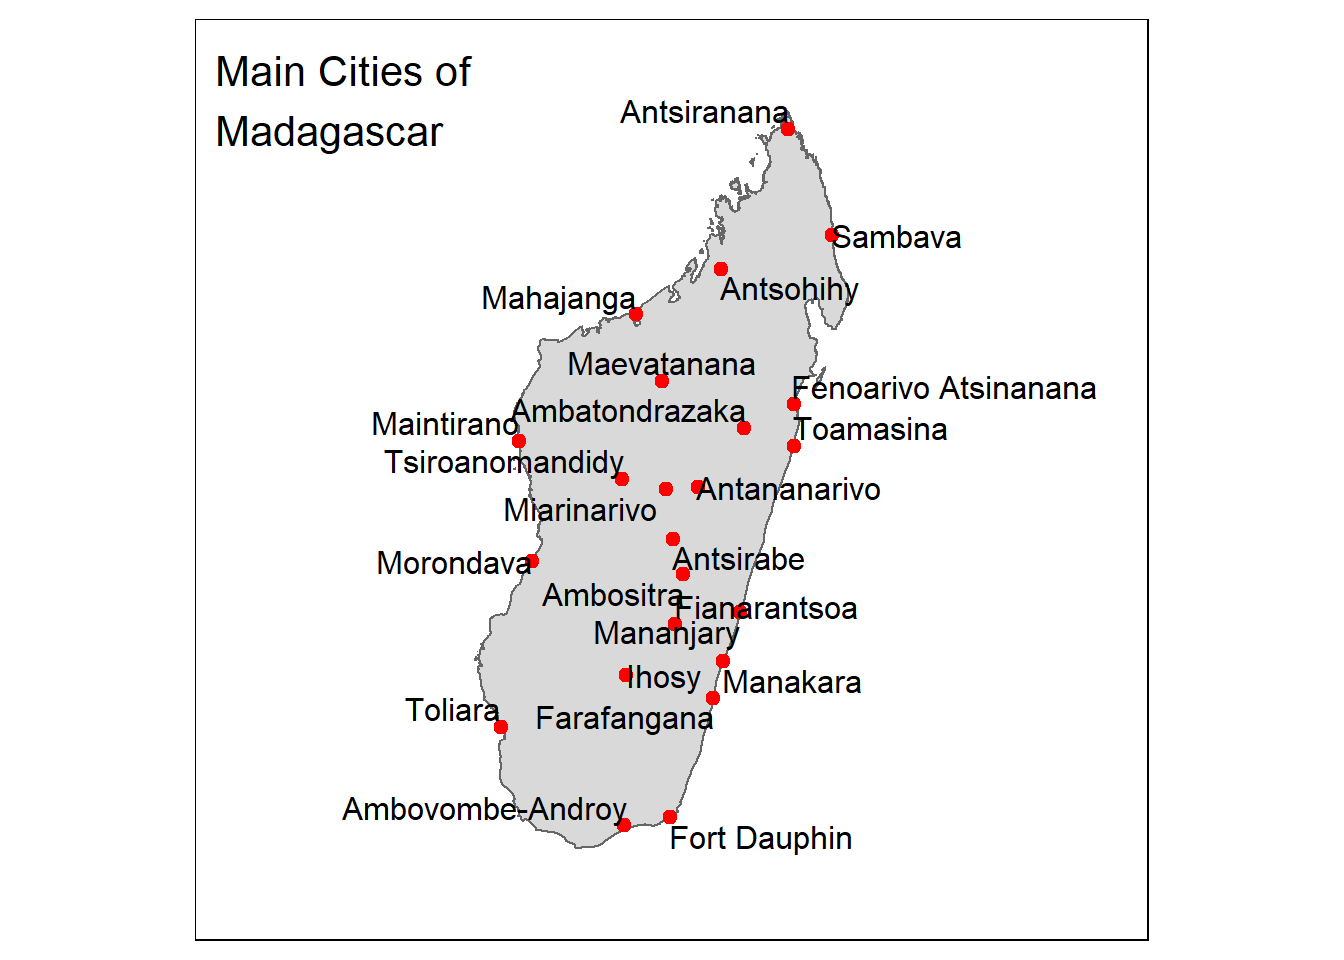
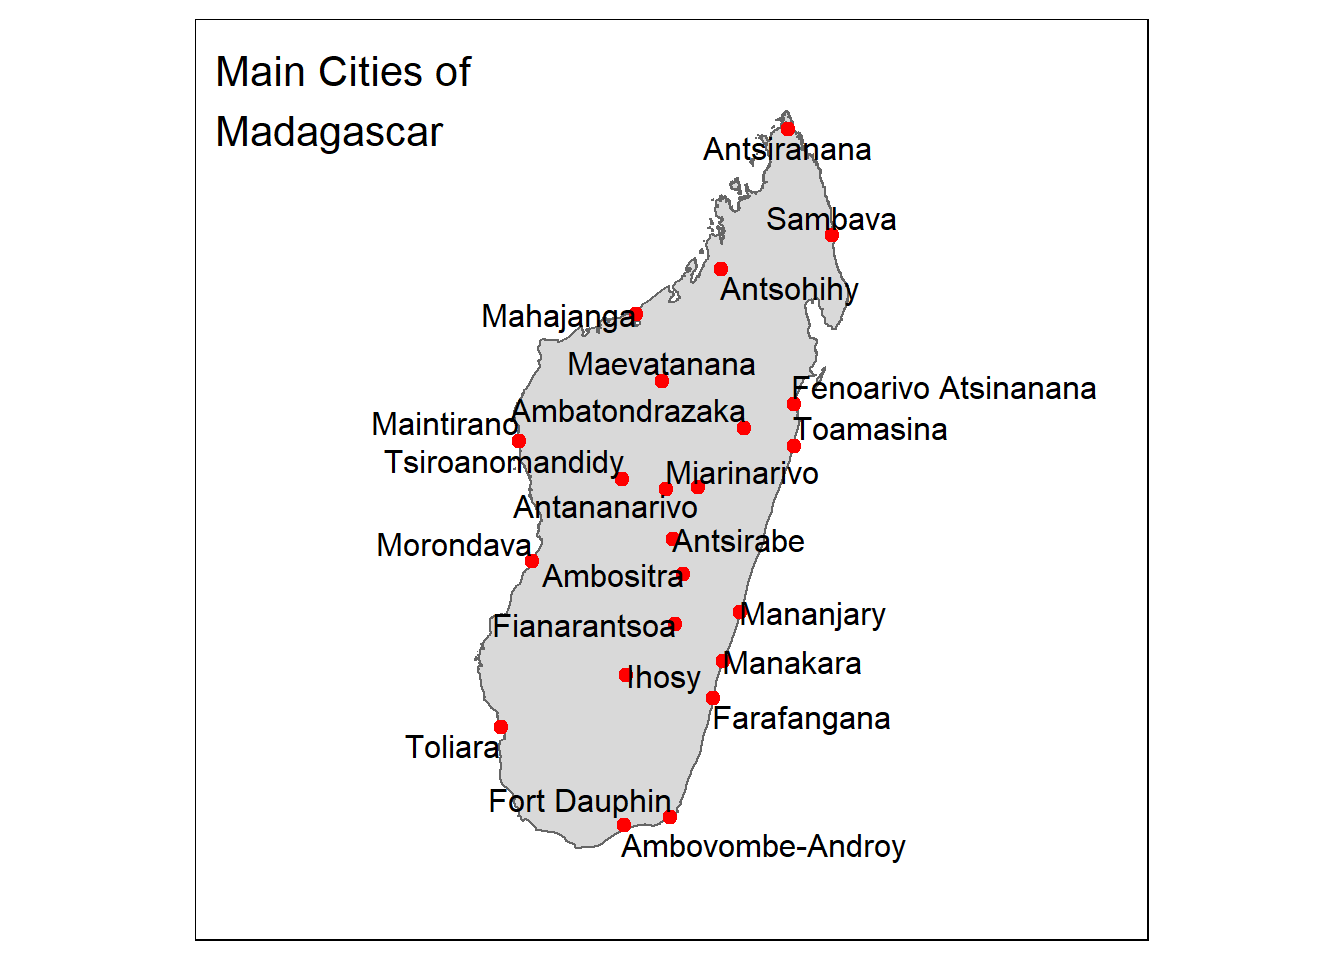
BC

diff --git a/Map demo/script/map demo.html b/Map demo/script/map demo.html
@@ -176,8 +176,8 @@ font-size: small;
 <span id="cb2-6"><a href="#cb2-6" aria-hidden="true" tabindex="-1"></a>DT<span class="sc">::</span><span class="fu">datatable</span>(<span class="fu">head</span>(cities))</span></code><button title="Copy to Clipboard" class="code-copy-button"><i class="bi"></i></button></pre></div>
 <div class="cell-output-display">
 
-<div class="datatables html-widget html-fill-item-overflow-hidden html-fill-item" id="htmlwidget-fdf70e3815475e8ca964" style="width:100%;height:auto;"></div>
-<script type="application/json" data-for="htmlwidget-fdf70e3815475e8ca964">{"x":{"filter":"none","vertical":false,"data":[["1","2","3","4","5","6"],["Ambatondrazaka","Ambositra","Ambovombe-Androy","Antananarivo","Antsirabe","Antsiranana"],[47649,41078,114230,1275207,245592,131165],["Alaotra-Mangoro","Amoron'i Mania","Androy","Analamanga","Vakinankaratra","Diana"],["Toamasina","Fianarantsoa","Toliara","Antananarivo","Antananarivo","Antsiranana"],["Adm2","Adm2","Adm2","Adm0","Adm2","Adm1"],[-17.8237084,-20.5328149,-25.1781,-18.9100122,-19.871403,-12.2841],[48.4267188,47.2450521,46.0892,47.5255809,47.034667,49.2943],[11,39,32,54,46,29]],"container":"<table class=\"display\">\n  <thead>\n    <tr>\n      <th> <\/th>\n      <th>Name<\/th>\n      <th>Population<\/th>\n      <th>Region<\/th>\n      <th>Province<\/th>\n      <th>Captial<\/th>\n      <th>Latitude<\/th>\n      <th>Longitude<\/th>\n      <th>Number of Activities<\/th>\n    <\/tr>\n  <\/thead>\n<\/table>","options":{"columnDefs":[{"className":"dt-right","targets":[2,6,7,8]},{"orderable":false,"targets":0}],"order":[],"autoWidth":false,"orderClasses":false}},"evals":[],"jsHooks":[]}</script>
+<div class="datatables html-widget html-fill-item-overflow-hidden html-fill-item" id="htmlwidget-d404aa1b0f55a76cd158" style="width:100%;height:auto;"></div>
+<script type="application/json" data-for="htmlwidget-d404aa1b0f55a76cd158">{"x":{"filter":"none","vertical":false,"data":[["1","2","3","4","5","6"],["Ambatondrazaka","Ambositra","Ambovombe-Androy","Antananarivo","Antsirabe","Antsiranana"],[47649,41078,114230,1275207,245592,131165],["Alaotra-Mangoro","Amoron'i Mania","Androy","Analamanga","Vakinankaratra","Diana"],["Toamasina","Fianarantsoa","Toliara","Antananarivo","Antananarivo","Antsiranana"],["Adm2","Adm2","Adm2","Adm0","Adm2","Adm1"],[-17.8237084,-20.5328149,-25.1781,-18.9100122,-19.871403,-12.2841],[48.4267188,47.2450521,46.0892,47.5255809,47.034667,49.2943],[11,39,32,54,46,29]],"container":"<table class=\"display\">\n  <thead>\n    <tr>\n      <th> <\/th>\n      <th>Name<\/th>\n      <th>Population<\/th>\n      <th>Region<\/th>\n      <th>Province<\/th>\n      <th>Captial<\/th>\n      <th>Latitude<\/th>\n      <th>Longitude<\/th>\n      <th>Number of Activities<\/th>\n    <\/tr>\n  <\/thead>\n<\/table>","options":{"columnDefs":[{"className":"dt-right","targets":[2,6,7,8]},{"orderable":false,"targets":0}],"order":[],"autoWidth":false,"orderClasses":false}},"evals":[],"jsHooks":[]}</script>
 </div>
 </div>
 <p>Now, for the administrative boundaries. Each of these are being read in using <code>st_read()</code> from the <code>sf</code> package. These are by default, spatial (sf) objects already.</p>
@@ -248,8 +248,8 @@ Geodetic CRS:  WGS 84</code></pre>
 <span id="cb9-6"><a href="#cb9-6" aria-hidden="true" tabindex="-1"></a>DT<span class="sc">::</span><span class="fu">datatable</span>(<span class="fu">head</span>(cities_sf))</span></code><button title="Copy to Clipboard" class="code-copy-button"><i class="bi"></i></button></pre></div>
 <div class="cell-output-display">
 
-<div class="datatables html-widget html-fill-item-overflow-hidden html-fill-item" id="htmlwidget-c038c5f2446573bb7ff1" style="width:100%;height:auto;"></div>
-<script type="application/json" data-for="htmlwidget-c038c5f2446573bb7ff1">{"x":{"filter":"none","vertical":false,"data":[["1","2","3","4","5","6"],["Ambatondrazaka","Ambositra","Ambovombe-Androy","Antananarivo","Antsirabe","Antsiranana"],[47649,41078,114230,1275207,245592,131165],["Alaotra-Mangoro","Amoron'i Mania","Androy","Analamanga","Vakinankaratra","Diana"],["Toamasina","Fianarantsoa","Toliara","Antananarivo","Antananarivo","Antsiranana"],["Adm2","Adm2","Adm2","Adm0","Adm2","Adm1"],[11,39,32,54,46,29],[{"type":"Point","coordinates":[48.4267188,-17.8237084]},{"type":"Point","coordinates":[47.2450521,-20.5328149]},{"type":"Point","coordinates":[46.0892,-25.1781]},{"type":"Point","coordinates":[47.5255809,-18.9100122]},{"type":"Point","coordinates":[47.034667,-19.871403]},{"type":"Point","coordinates":[49.2943,-12.2841]}]],"container":"<table class=\"display\">\n  <thead>\n    <tr>\n      <th> <\/th>\n      <th>Name<\/th>\n      <th>Population<\/th>\n      <th>Region<\/th>\n      <th>Province<\/th>\n      <th>Captial<\/th>\n      <th>Number of Activities<\/th>\n      <th>geometry<\/th>\n    <\/tr>\n  <\/thead>\n<\/table>","options":{"columnDefs":[{"className":"dt-right","targets":[2,6]},{"orderable":false,"targets":0}],"order":[],"autoWidth":false,"orderClasses":false}},"evals":[],"jsHooks":[]}</script>
+<div class="datatables html-widget html-fill-item-overflow-hidden html-fill-item" id="htmlwidget-6b4ec8520acd57b5199f" style="width:100%;height:auto;"></div>
+<script type="application/json" data-for="htmlwidget-6b4ec8520acd57b5199f">{"x":{"filter":"none","vertical":false,"data":[["1","2","3","4","5","6"],["Ambatondrazaka","Ambositra","Ambovombe-Androy","Antananarivo","Antsirabe","Antsiranana"],[47649,41078,114230,1275207,245592,131165],["Alaotra-Mangoro","Amoron'i Mania","Androy","Analamanga","Vakinankaratra","Diana"],["Toamasina","Fianarantsoa","Toliara","Antananarivo","Antananarivo","Antsiranana"],["Adm2","Adm2","Adm2","Adm0","Adm2","Adm1"],[11,39,32,54,46,29],[{"type":"Point","coordinates":[48.4267188,-17.8237084]},{"type":"Point","coordinates":[47.2450521,-20.5328149]},{"type":"Point","coordinates":[46.0892,-25.1781]},{"type":"Point","coordinates":[47.5255809,-18.9100122]},{"type":"Point","coordinates":[47.034667,-19.871403]},{"type":"Point","coordinates":[49.2943,-12.2841]}]],"container":"<table class=\"display\">\n  <thead>\n    <tr>\n      <th> <\/th>\n      <th>Name<\/th>\n      <th>Population<\/th>\n      <th>Region<\/th>\n      <th>Province<\/th>\n      <th>Captial<\/th>\n      <th>Number of Activities<\/th>\n      <th>geometry<\/th>\n    <\/tr>\n  <\/thead>\n<\/table>","options":{"columnDefs":[{"className":"dt-right","targets":[2,6]},{"orderable":false,"targets":0}],"order":[],"autoWidth":false,"orderClasses":false}},"evals":[],"jsHooks":[]}</script>
 </div>
 </div>
 </section>
@@ -272,7 +272,7 @@ Geodetic CRS:  WGS 84</code></pre>
 </div>
 <div id="tabset-2-2" class="tab-pane" role="tabpanel" aria-labelledby="tabset-2-2-tab">
 <div class="cell">
-<div class="sourceCode cell-code" id="cb11"><pre class="sourceCode r code-with-copy"><code class="sourceCode r"><span id="cb11-1"><a href="#cb11-1" aria-hidden="true" tabindex="-1"></a><span class="fu">ggplot</span>(mdg) <span class="sc">+</span></span>
+<div class="sourceCode cell-code" id="cb11"><pre class="sourceCode r code-with-copy"><code class="sourceCode r"><span id="cb11-1"><a href="#cb11-1" aria-hidden="true" tabindex="-1"></a>ggplot2<span class="sc">::</span><span class="fu">ggplot</span>(mdg) <span class="sc">+</span></span>
 <span id="cb11-2"><a href="#cb11-2" aria-hidden="true" tabindex="-1"></a>  <span class="fu">geom_sf</span>() <span class="sc">+</span></span>
 <span id="cb11-3"><a href="#cb11-3" aria-hidden="true" tabindex="-1"></a>  <span class="fu">geom_sf</span>(<span class="at">data =</span> cities_sf, <span class="at">color =</span> <span class="st">"red"</span>)</span></code><button title="Copy to Clipboard" class="code-copy-button"><i class="bi"></i></button></pre></div>
 <div class="cell-output-display">
@@ -342,12 +342,12 @@ Geodetic CRS:  WGS 84</code></pre>
 <span id="cb13-14"><a href="#cb13-14" aria-hidden="true" tabindex="-1"></a>  bbox_new[<span class="dv">4</span>] <span class="ot">&lt;-</span> bbox_new[<span class="dv">4</span>] <span class="sc">+</span> (<span class="fl">0.1</span> <span class="sc">*</span> yrange) <span class="co"># ymax - top</span></span>
 <span id="cb13-15"><a href="#cb13-15" aria-hidden="true" tabindex="-1"></a></span>
 <span id="cb13-16"><a href="#cb13-16" aria-hidden="true" tabindex="-1"></a><span class="co">#convert the bbox to a sf collection (sfc)</span></span>
-<span id="cb13-17"><a href="#cb13-17" aria-hidden="true" tabindex="-1"></a>bbox_new <span class="ot">&lt;-</span> bbox_new <span class="sc">|&gt;</span>  <span class="co"># take the bounding box ...</span></span>
+<span id="cb13-17"><a href="#cb13-17" aria-hidden="true" tabindex="-1"></a>bbox_new <span class="ot">&lt;-</span> bbox_new <span class="sc">|&gt;</span>  <span class="co"># take the bounding box</span></span>
 <span id="cb13-18"><a href="#cb13-18" aria-hidden="true" tabindex="-1"></a>  <span class="fu">st_as_sfc</span>() <span class="co"># ... and make it a sf polygon</span></span>
 <span id="cb13-19"><a href="#cb13-19" aria-hidden="true" tabindex="-1"></a></span>
 <span id="cb13-20"><a href="#cb13-20" aria-hidden="true" tabindex="-1"></a></span>
-<span id="cb13-21"><a href="#cb13-21" aria-hidden="true" tabindex="-1"></a><span class="fu">ggplot</span>(mdg) <span class="sc">+</span></span>
-<span id="cb13-22"><a href="#cb13-22" aria-hidden="true" tabindex="-1"></a>  <span class="fu">geom_sf</span>() <span class="sc">+</span></span>
+<span id="cb13-21"><a href="#cb13-21" aria-hidden="true" tabindex="-1"></a>ggplot2<span class="sc">::</span><span class="fu">ggplot</span>() <span class="sc">+</span></span>
+<span id="cb13-22"><a href="#cb13-22" aria-hidden="true" tabindex="-1"></a>  <span class="fu">geom_sf</span>(<span class="at">data =</span> mdg) <span class="sc">+</span></span>
 <span id="cb13-23"><a href="#cb13-23" aria-hidden="true" tabindex="-1"></a>  <span class="fu">geom_sf</span>(<span class="at">data =</span> cities_sf, <span class="at">color =</span> <span class="st">"red"</span>) <span class="sc">+</span></span>
 <span id="cb13-24"><a href="#cb13-24" aria-hidden="true" tabindex="-1"></a>  ggrepel<span class="sc">::</span><span class="fu">geom_text_repel</span>(<span class="at">data =</span> cities_sf</span>
 <span id="cb13-25"><a href="#cb13-25" aria-hidden="true" tabindex="-1"></a>               , <span class="fu">aes</span>(<span class="at">label =</span> Name</span>
